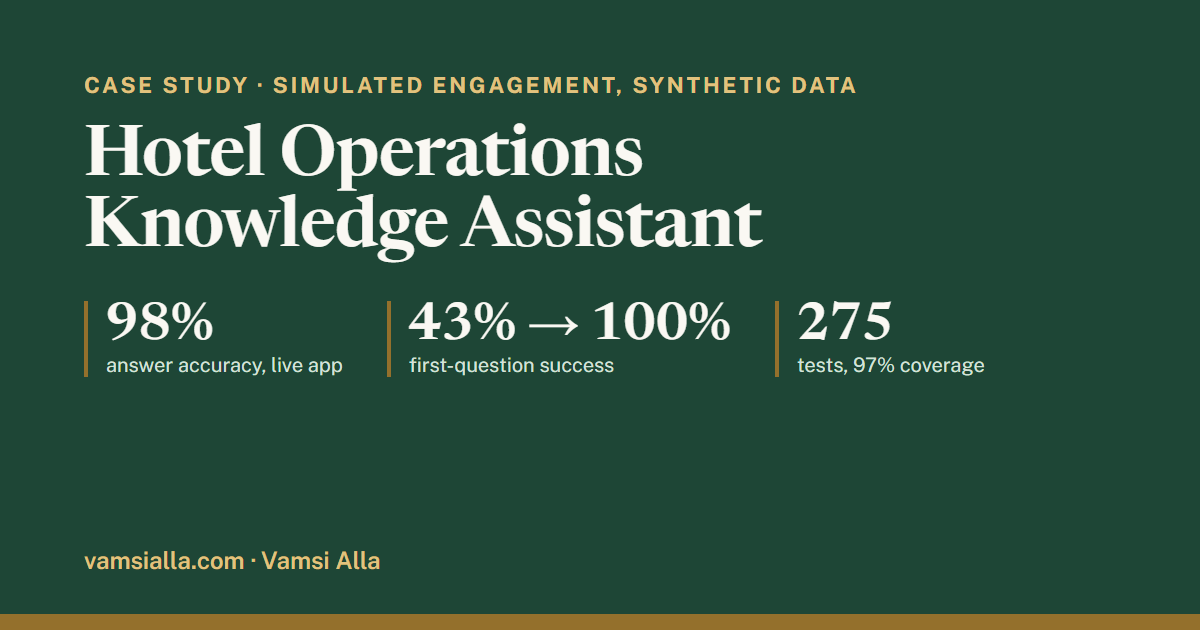
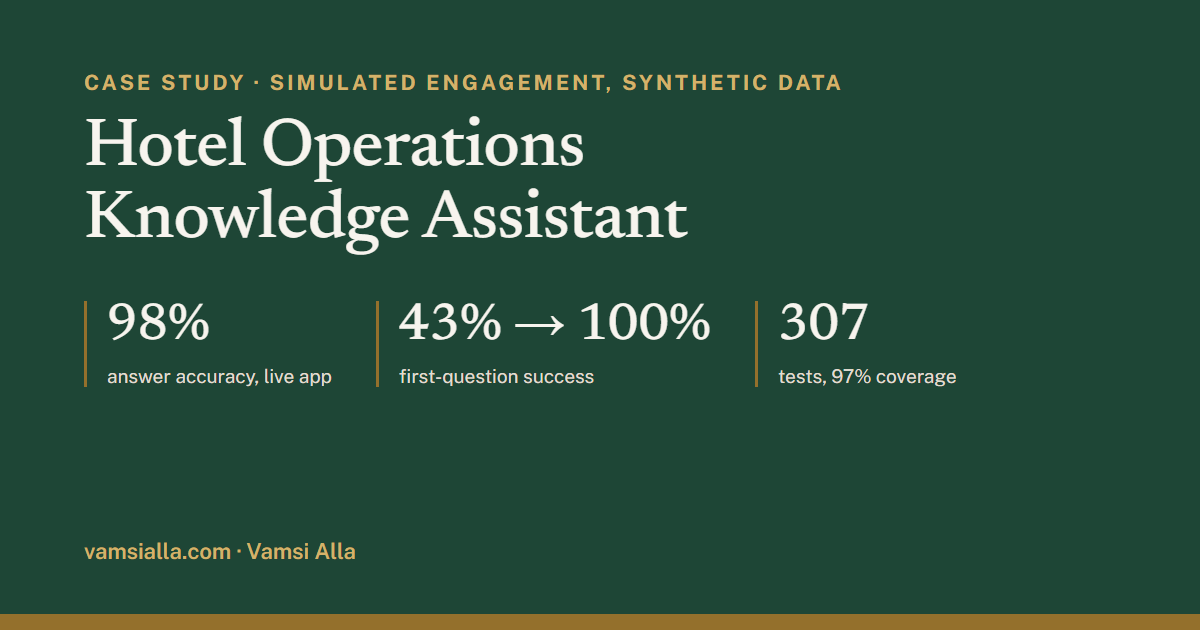
fix(case-study): current test count (307) in the text and the link preview

diff --git a/projects/hotel-ops-assistant.html b/projects/hotel-ops-assistant.html
@@ -16,17 +16,18 @@
 <meta property="og:image" content="https://vamsialla.com/assets/og-hotel-ops.png">
 <meta property="og:image:width" content="1200">
 <meta property="og:image:height" content="630">
-<meta property="og:image:alt" content="Hotel Operations Knowledge Assistant case study: 98% answer accuracy on the live app, first-question success 43% to 100%, 275 tests">
+<meta property="og:image:alt" content="Hotel Operations Knowledge Assistant case study: 98% answer accuracy on the live app, first-question success 43% to 100%, 307 tests">
 <meta name="twitter:card" content="summary_large_image">
 <meta name="twitter:title" content="Hotel Operations Knowledge Assistant | Case study | Vamsi Alla">
 <meta name="twitter:description" content="Independent, simulated engagement with synthetic data: a RAG assistant that gives hotel front-desk staff cited, property-specific policy answers. 98% answer accuracy on the live app; first-question success 43% to 100%.">
 <meta name="twitter:image" content="https://vamsialla.com/assets/og-hotel-ops.png">
-<meta name="twitter:image:alt" content="Hotel Operations Knowledge Assistant case study: 98% answer accuracy on the live app, first-question success 43% to 100%, 275 tests">
+<meta name="twitter:image:alt" content="Hotel Operations Knowledge Assistant case study: 98% answer accuracy on the live app, first-question success 43% to 100%, 307 tests">
 <meta name="theme-color" content="#F7F4EE" media="(prefers-color-scheme: light)">
 <meta name="theme-color" content="#111613" media="(prefers-color-scheme: dark)">
 <link rel="icon" href="../favicon.ico" sizes="32x32">
 <link rel="icon" href="../assets/favicon.svg" type="image/svg+xml">
 <link rel="apple-touch-icon" href="../apple-touch-icon.png">
+<link rel="alternate" type="application/rss+xml" title="Notes | Vamsi Alla" href="https://vamsialla.com/feed.xml">
 <link rel="preload" as="image" href="../videos/hotel-ops-demo-poster.webp" fetchpriority="high">
 <link rel="preload" href="../assets/fonts/public-sans-latin.woff2" as="font" type="font/woff2" crossorigin>
 <link rel="preload" href="../assets/fonts/newsreader-500-latin.woff2" as="font" type="font/woff2" crossorigin>
@@ -37,11 +38,11 @@
 <a class="skip" href="#main">Skip to content</a>
 <header class="site-header">
   <div class="wrap bar">
-    <a class="brand" href="../index.html">Vamsi Alla</a>
+    <a class="brand" href="../index.html"><span class="brand-name">Vamsi Alla</span><span class="brand-tag">Build · Measure · Ship · Share</span></a>
     <button class="icon-btn theme-btn" type="button" aria-label="Switch color theme"><svg class="sun" viewBox="0 0 24 24" aria-hidden="true" fill="none" stroke="currentColor" stroke-width="2"><circle cx="12" cy="12" r="4"/><path d="M12 2v2M12 20v2M4.9 4.9l1.4 1.4M17.7 17.7l1.4 1.4M2 12h2M20 12h2M4.9 19.1l1.4-1.4M17.7 6.3l1.4-1.4"/></svg><svg class="moon" viewBox="0 0 24 24" aria-hidden="true" fill="none" stroke="currentColor" stroke-width="2"><path d="M21 12.8A9 9 0 1 1 11.2 3a7 7 0 0 0 9.8 9.8z"/></svg></button>
     <button class="icon-btn menu-btn" type="button" aria-expanded="false" aria-controls="site-nav">Menu</button>
     <nav id="site-nav" class="site-nav" aria-label="Main">
-      <ul><li><a href="../index.html">Home</a></li><li><a href="../experience.html">Experience</a></li><li><a href="../projects.html" aria-current="page">Projects</a></li><li><a href="../about.html">About</a></li><li><a href="../contact.html">Contact</a></li></ul>
+      <ul><!--s:nav--><li><a href="../index.html">Home</a></li><li><a href="../experience.html">Experience</a></li><li><a href="../projects.html" aria-current="page">Projects</a></li><li><a href="../notes.html">Notes</a></li><li><a href="../about.html">About</a></li><li><a href="../contact.html">Contact</a></li><li class="more"><span class="more-title" aria-hidden="true">More</span><button class="more-btn" type="button" aria-expanded="false" aria-controls="more-menu">More<svg class="chev" viewBox="0 0 24 24" aria-hidden="true" fill="none" stroke="currentColor" stroke-width="2"><path d="m6 9 6 6 6-6"/></svg></button><ul id="more-menu" class="more-menu"><li><a href="../now.html">Now</a></li><li><a href="../life.html">Life</a></li><li><a href="../learning.html">Learning</a></li><li><a href="../uses.html">Uses</a></li></ul></li><!--/s:nav--></ul>
     </nav>
   </div>
 </header>
@@ -169,7 +170,7 @@
     <div class="narrow">
       <div class="section-head"><span class="eyebrow">06 · Engineering</span><h2 id="eng-h">Engineering</h2></div>
       <ul>
-        <li><strong>Tests:</strong> 275 tests at 97% coverage, including every page rendered in a test harness and an injected error on each page.</li>
+        <li><strong>Tests:</strong> 307 tests at 97% coverage, including every page rendered in a test harness and an injected error on each page.</li>
         <li><strong>CI on every commit:</strong> lint and format checks, a dependency audit, a coverage gate, a retrieval regression gate, a first-question gate on the 49 visitor questions, and a check that every curated suggestion works.</li>
         <li><strong>Eval method:</strong> strict passage-level retrieval, required and forbidden facts per answer, citation and numeric grounding checks, 3 runs per setup, and every raw answer saved. <a href="https://github.com/vamsialladev/hotel-ops-assistant/tree/main/eval" rel="noopener noreferrer">Eval code and reports →</a></li>
         <li><strong>Security:</strong> secrets kept out of the code with secret scanning and push protection, document text treated as data rather than instructions, output escaping, per-session and daily caps, CSV formula-injection protection, and a password-gated admin page. <a href="https://github.com/vamsialladev/hotel-ops-assistant/blob/main/SECURITY.md" rel="noopener noreferrer">Threat model →</a></li>
@@ -208,11 +209,14 @@
 </main>
 <footer class="site-footer">
   <div class="wrap">
+    <p class="footer-line">Work, writing, and the life around it.</p>
+    <ul class="footer-pages"><!--s:footer-pages--><li><a href="../now.html">Now</a></li><li><a href="../life.html">Life</a></li><li><a href="../learning.html">Learning</a></li><li><a href="../uses.html">Uses</a></li><!--/s:footer-pages--></ul>
     <ul>
       <li>© <span data-year>2026</span> Vamsi Alla</li>
       <li><a href="mailto:vamsialla.dev@gmail.com">Email</a></li>
       <li><a href="https://www.linkedin.com/in/vamsi-alla/" rel="noopener noreferrer">LinkedIn</a></li>
       <li><a href="https://github.com/vamsialladev" rel="noopener noreferrer">GitHub</a></li>
+      <li><a href="https://vamsialla.com/feed.xml">RSS</a></li>
       <li><a href="../privacy.html">Privacy</a></li>
     </ul>
     <p>Projects use a simulated hotel group and synthetic data.</p>
